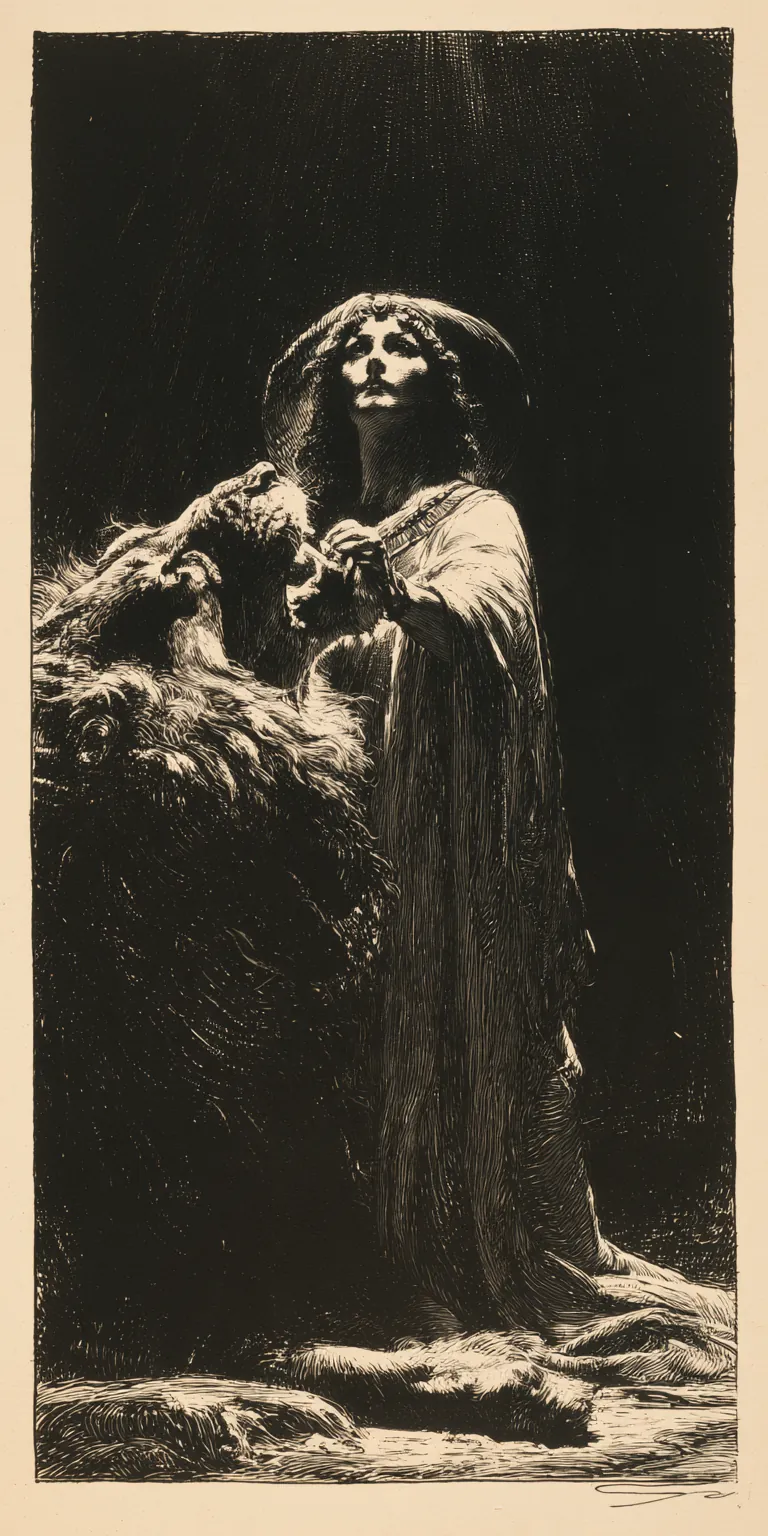
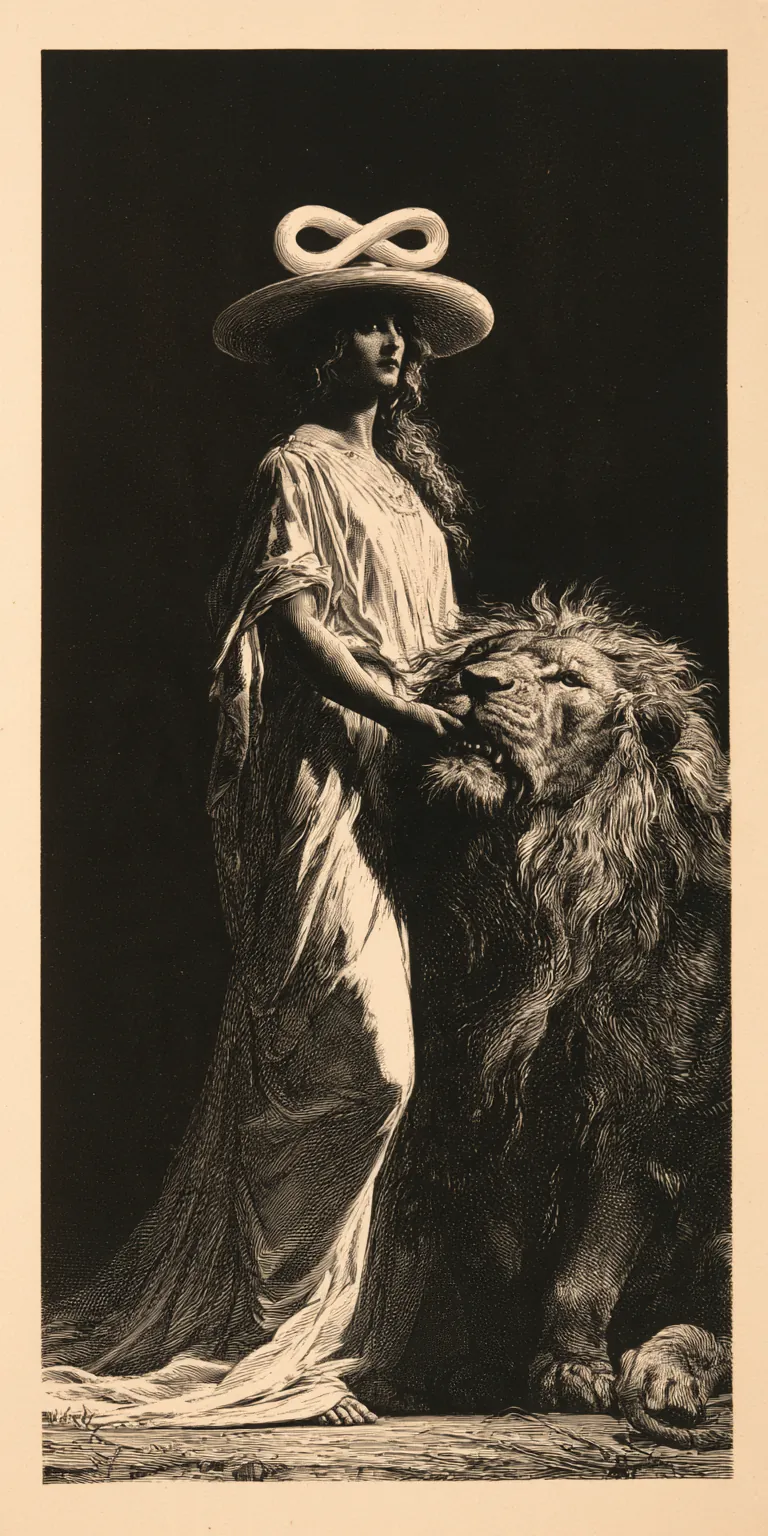
Nueva estampa de La Fuerza con sombrero en lemniscata; notas de la cámara sin solaparse
Claude-Session: https://claude.ai/code/session_018meaLfQxSPGBRGiQJnXusa

diff --git a/public/en/index.html b/public/en/index.html
@@ -322,6 +322,8 @@ footer{border-top:1px solid var(--line);padding:56px var(--gutter) 40px;color:va
 
 /* ---------- lente de color ---------- */
 .tint{position:absolute;inset:0;mix-blend-mode:color;opacity:.85;pointer-events:none;z-index:2}
+.hs-note,.col-note{flex-shrink:0}
+@media (min-width:861px){.cam-left{overflow-y:auto}}
 .col-note{min-height:2.8em;max-width:340px;width:100%;text-align:center;color:var(--dim);font-size:.9em;margin-top:6px;transition:color .3s}
 .col-note b{font-family:var(--display);font-weight:400}
 .col-note i{display:inline-block;width:10px;height:10px;border-radius:50%;margin-right:6px;vertical-align:baseline;border:1px solid rgba(232,220,192,.3)}
@@ -765,11 +767,11 @@ mirar:"A wheel with a crank and nobody to turn it. One animal climbs, another fa
 amp:"Boethius's Fortune, who in The Consolation of Philosophy turns her wheel indifferent to kings and beggars; the wheel of samsara; the chariot of time. Nichols gives her chapter a cry for help: the ego discovers it does not govern the cycles. The sphinx suggests another way out: not fleeing the turning, but standing at its centre.",
 q:["Where are you on the wheel: rising, falling or at the top?", "Which cycle is closing in your life?", "If the crank were yours, would you turn it?"],
 hs:[{x:31,y:72,t:"The crank",d:"The wheel does not turn by itself: a hand is missing. Perhaps yours."},{x:43,y:27,t:"The winged figure",d:"Crowned above the wheel, still while everything turns: the motionless centre of the cycle."},{x:25,y:44,t:"Those who rise and fall",d:"Some climb, others fall: no place on the wheel is permanent."},{x:50,y:48,t:"The axis of light",d:"The centre shines: whatever turns has a point that does not move."}],col:[{x:55,y:50,r:14,c:"Flesh"},{x:43,y:28,r:7,c:"Light blue"},{x:25,y:44,r:7,c:"Red"},{x:31,y:72,r:6,c:"Dark yellow"}]},
-{n:11,es:"Strength",hist:"LA FORCE",kw:"deep energy, new beginning, integration",sombra:"repression, violence, domination of instinct",gaze:"L",img:"/cartas/11-la-force.webp",
+{n:11,es:"Strength",hist:"LA FORCE",kw:"deep energy, new beginning, integration",sombra:"repression, violence, domination of instinct",gaze:"R",img:"/cartas/11-la-force.webp",
 mirar:"She opens the lion's mouth with no apparent effort, and we cannot tell whether she is opening it or closing it. She wears the same lemniscate hat as the Magician: this is the second beginning, that of the second series. The Magician begins with skill; Strength begins from the depths, from the animal.",
 amp:"Hercules against the Nemean lion, but without a club: the strength that does not kill instinct but integrates it. Daniel in the lions' den, the maiden who tames the unicorn. Nichols asks: whose strength? In Jungian terms, the relationship between the ego and instinctual energy which, when repressed, turns against us.",
 q:["Which of your instincts needs to be heard rather than tamed?", "Where do you use force when calm would be enough?", "What begins in you from below, and not from the head?"],
-hs:[{x:38,y:37,t:"Hands in the jaws",d:"Neither fight nor flight: she gently opens or closes the beast's mouth. Integrating is not defeating."},{x:27,y:45,t:"The lion",d:"Huge and yet docile: instinct that has been accepted is not frightening."},{x:44,y:24,t:"The raised face",d:"She holds the beast while looking upwards: the strength comes from elsewhere."},{x:55,y:20,t:"The mantle over her head",d:"In the Marseille deck she wears the Magician's lemniscate hat; here a mantle frames her like a halo. Two beginnings."}],col:[{x:46,y:20,r:7,c:"Light yellow"},{x:62,y:60,r:12,c:"Light blue"},{x:27,y:45,r:11,c:"Dark yellow"},{x:40,y:32,r:6,c:"Flesh"}]},
+hs:[{x:57,y:47,t:"Hands in the jaws",d:"Neither fight nor flight: she gently opens or closes the beast's mouth. Integrating is not defeating."},{x:76,y:58,t:"The lion",d:"Huge and yet docile: instinct that has been accepted is not frightening."},{x:47,y:16,t:"The lemniscate hat",d:"The same figure eight lying down that the Magician wears: two beginnings, two series. Here it crowns her head like an endless thought."},{x:50,y:24,t:"The distant gaze",d:"She holds the beast without looking at it: the strength comes from elsewhere."}],col:[{x:47,y:16,r:7,c:"Light yellow"},{x:40,y:55,r:12,c:"Light blue"},{x:76,y:56,r:13,c:"Dark yellow"},{x:56,y:46,r:5,c:"Flesh"}]},
 {n:12,es:"The Hanged Man",hist:"LE PENDV",kw:"pause, surrender, another perspective",sombra:"paralysis, victimhood, barren sacrifice",gaze:"F",img:"/cartas/12-le-pendu.webp",
 mirar:"He hangs by one foot, the other leg crossed behind and his hands hidden at his back. Nobody seems to be forcing him: his face is serene. The trees have had their branches cut, they will grow outwards no more. This is the second gestation: stopping completely and seeing the world upside down.",
 amp:"Odin hung for nine nights from the world tree to obtain the runes. The defamatory paintings of Renaissance Italy hung traitors and debtors in effigy, upside down. Nichols titles her chapter intrigue: a card that disconcerts. Jung would see the voluntary suspension of the ego, the sacrifice that lets the unconscious speak.",

diff --git a/public/index.html b/public/index.html
@@ -321,6 +321,8 @@ footer{border-top:1px solid var(--line);padding:56px var(--gutter) 40px;color:va
 
 /* ---------- lente de color ---------- */
 .tint{position:absolute;inset:0;mix-blend-mode:color;opacity:.85;pointer-events:none;z-index:2}
+.hs-note,.col-note{flex-shrink:0}
+@media (min-width:861px){.cam-left{overflow-y:auto}}
 .col-note{min-height:2.8em;max-width:340px;width:100%;text-align:center;color:var(--dim);font-size:.9em;margin-top:6px;transition:color .3s}
 .col-note b{font-family:var(--display);font-weight:400}
 .col-note i{display:inline-block;width:10px;height:10px;border-radius:50%;margin-right:6px;vertical-align:baseline;border:1px solid rgba(232,220,192,.3)}
@@ -764,11 +766,11 @@ mirar:"Una rueda con manivela y nadie que la gire. Un animal sube, otro baja, y 
 amp:"La Fortuna de Boecio, que en La consolación de la filosofía hace girar su rueda indiferente a reyes y mendigos; la rueda del samsara; el carro del tiempo. Nichols titula su capítulo con un grito de socorro: el yo descubre que no gobierna los ciclos. La esfinge sugiere otra salida: no huir del giro, sino situarse en su centro.",
 q:["¿En qué parte de la rueda estás: subiendo, bajando o arriba?","¿Qué ciclo se está cerrando en tu vida?","Si la manivela fuese tuya, ¿la girarías?"],
 hs:[{x:31,y:72,t:"La manivela",d:"La rueda no gira sola: falta una mano. Quizá la tuya."},{x:43,y:27,t:"La figura alada",d:"Coronada sobre la rueda, quieta mientras todo gira: el centro inmóvil del ciclo."},{x:25,y:44,t:"Los que suben y bajan",d:"Unos trepan, otros caen: ningún lugar de la rueda es permanente."},{x:50,y:48,t:"El eje de luz",d:"El centro brilla: lo que gira tiene un punto que no se mueve."}],col:[{x:55,y:50,r:14,c:"Carne"},{x:43,y:28,r:7,c:"Azul claro"},{x:25,y:44,r:7,c:"Rojo"},{x:31,y:72,r:6,c:"Amarillo oscuro"}]},
-{n:11,es:"La Fuerza",hist:"LA FORCE",kw:"energía profunda, nuevo comienzo, integración",sombra:"represión, violencia, dominio del instinto",gaze:"L",img:"cartas/11-la-force.webp",
+{n:11,es:"La Fuerza",hist:"LA FORCE",kw:"energía profunda, nuevo comienzo, integración",sombra:"represión, violencia, dominio del instinto",gaze:"R",img:"cartas/11-la-force.webp",
 mirar:"Abre la boca del león sin esfuerzo aparente, y no sabemos si se la abre o se la cierra. Lleva el mismo sombrero en lemniscata que el Mago: es el segundo comienzo, el de la segunda serie. El Mago empieza con habilidad; la Fuerza empieza desde el fondo, desde el animal.",
 amp:"Hércules contra el león de Nemea, pero sin maza: la fuerza que no mata al instinto, sino que lo integra. Daniel en el foso de los leones, la doncella que amansa al unicornio. Nichols pregunta: ¿fuerza de quién? En términos junguianos, la relación entre el yo y la energía instintiva que, reprimida, se vuelve en contra.",
 q:["¿Qué instinto tuyo necesita ser escuchado, no domado?","¿Dónde usas la fuerza cuando bastaría la calma?","¿Qué empieza en ti desde abajo, y no desde la cabeza?"],
-hs:[{x:38,y:37,t:"Las manos en las fauces",d:"Ni lucha ni huida: abre o cierra la boca de la fiera con suavidad. Integrar no es vencer."},{x:27,y:45,t:"El león",d:"Enorme y a la vez dócil: el instinto asumido no da miedo."},{x:44,y:24,t:"El rostro alzado",d:"Sostiene a la bestia mientras mira arriba: la fuerza viene de otro sitio."},{x:55,y:20,t:"El manto sobre la cabeza",d:"En el Marsella lleva el sombrero en lemniscata del Mago; aquí un manto la enmarca como un halo. Dos comienzos."}],col:[{x:46,y:20,r:7,c:"Amarillo claro"},{x:62,y:60,r:12,c:"Azul claro"},{x:27,y:45,r:11,c:"Amarillo oscuro"},{x:40,y:32,r:6,c:"Carne"}]},
+hs:[{x:57,y:47,t:"Las manos en las fauces",d:"Ni lucha ni huida: abre o cierra la boca de la fiera con suavidad. Integrar no es vencer."},{x:76,y:58,t:"El león",d:"Enorme y a la vez dócil: el instinto asumido no da miedo."},{x:47,y:16,t:"El sombrero en lemniscata",d:"El mismo ocho tumbado que lleva el Mago: dos comienzos, dos series. Aquí corona la cabeza como un pensamiento sin fin."},{x:50,y:24,t:"La mirada lejana",d:"Sostiene a la bestia sin mirarla: la fuerza viene de otro sitio."}],col:[{x:47,y:16,r:7,c:"Amarillo claro"},{x:40,y:55,r:12,c:"Azul claro"},{x:76,y:56,r:13,c:"Amarillo oscuro"},{x:56,y:46,r:5,c:"Carne"}]},
 {n:12,es:"El Colgado",hist:"LE PENDV",kw:"pausa, entrega, otra perspectiva",sombra:"parálisis, victimismo, sacrificio estéril",gaze:"F",img:"cartas/12-le-pendu.webp",
 mirar:"Cuelga de un pie, con la otra pierna cruzada detrás y las manos escondidas a la espalda. Nadie parece obligarle: su cara está serena. Los árboles tienen las ramas cortadas, no crecerán más hacia fuera. Es la segunda gestación: detenerse del todo y mirar el mundo del revés.",
 amp:"Odín pasó nueve noches colgado del árbol del mundo para obtener las runas. La pintura infamante de la Italia renacentista colgaba en efigie, boca abajo, a traidores y deudores. Nichols titula su capítulo intriga: una carta que desconcierta. Jung vería la suspensión voluntaria del yo, el sacrificio que deja hablar al inconsciente.",

diff --git a/tools/i18n_en.py b/tools/i18n_en.py
@@ -108,8 +108,8 @@ ARC = [
  "q": ["Which of your instincts needs to be heard rather than tamed?", "Where do you use force when calm would be enough?", "What begins in you from below, and not from the head?"],
  "hs": [["Hands in the jaws", "Neither fight nor flight: she gently opens or closes the beast's mouth. Integrating is not defeating."],
         ["The lion", "Huge and yet docile: instinct that has been accepted is not frightening."],
-        ["The raised face", "She holds the beast while looking upwards: the strength comes from elsewhere."],
-        ["The mantle over her head", "In the Marseille deck she wears the Magician's lemniscate hat; here a mantle frames her like a halo. Two beginnings."]]},
+        ["The lemniscate hat", "The same figure eight lying down that the Magician wears: two beginnings, two series. Here it crowns her head like an endless thought."],
+        ["The distant gaze", "She holds the beast without looking at it: the strength comes from elsewhere."]]},
 {"es": "The Hanged Man", "kw": "pause, surrender, another perspective", "sombra": "paralysis, victimhood, barren sacrifice",
  "mirar": "He hangs by one foot, the other leg crossed behind and his hands hidden at his back. Nobody seems to be forcing him: his face is serene. The trees have had their branches cut, they will grow outwards no more. This is the second gestation: stopping completely and seeing the world upside down.",
  "amp": "Odin hung for nine nights from the world tree to obtain the runes. The defamatory paintings of Renaissance Italy hung traitors and debtors in effigy, upside down. Nichols titles her chapter intrigue: a card that disconcerts. Jung would see the voluntary suspension of the ego, the sacrifice that lets the unconscious speak.",
